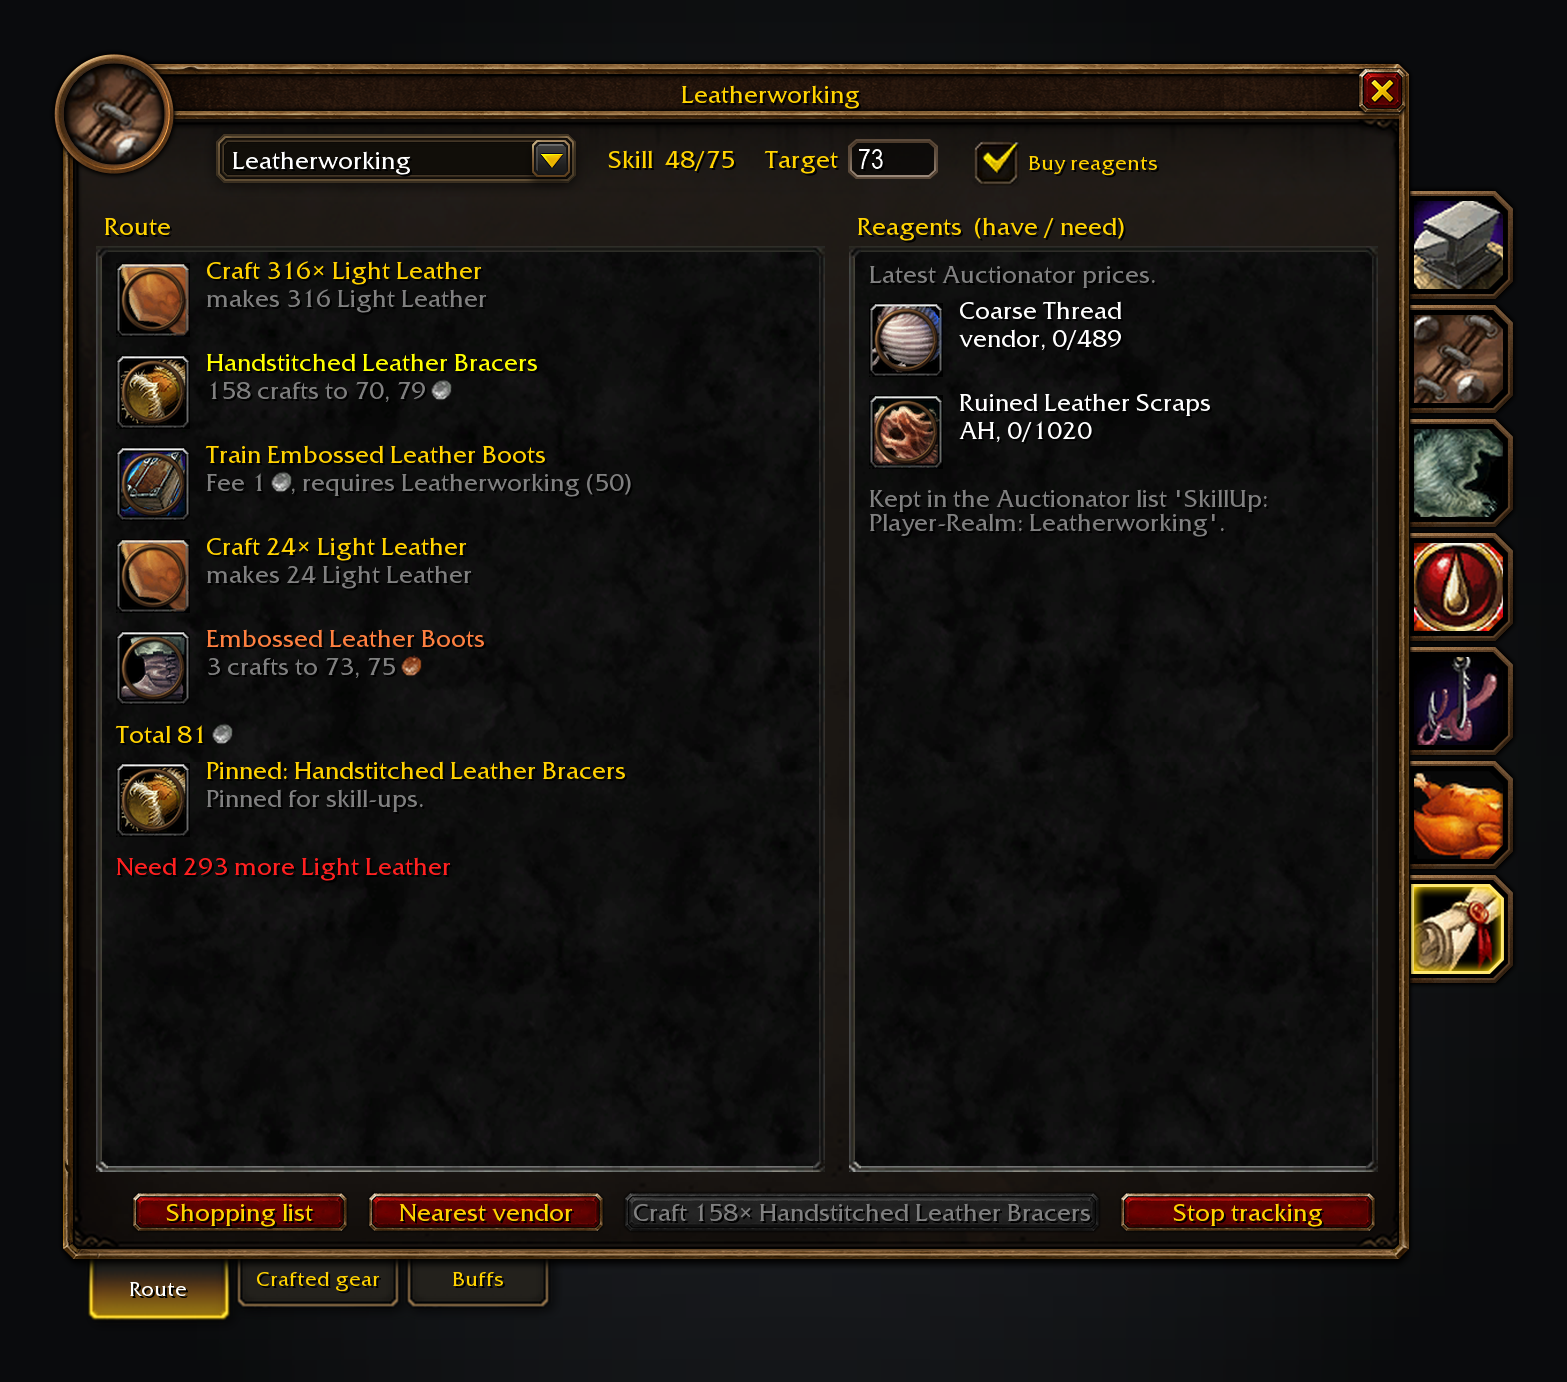
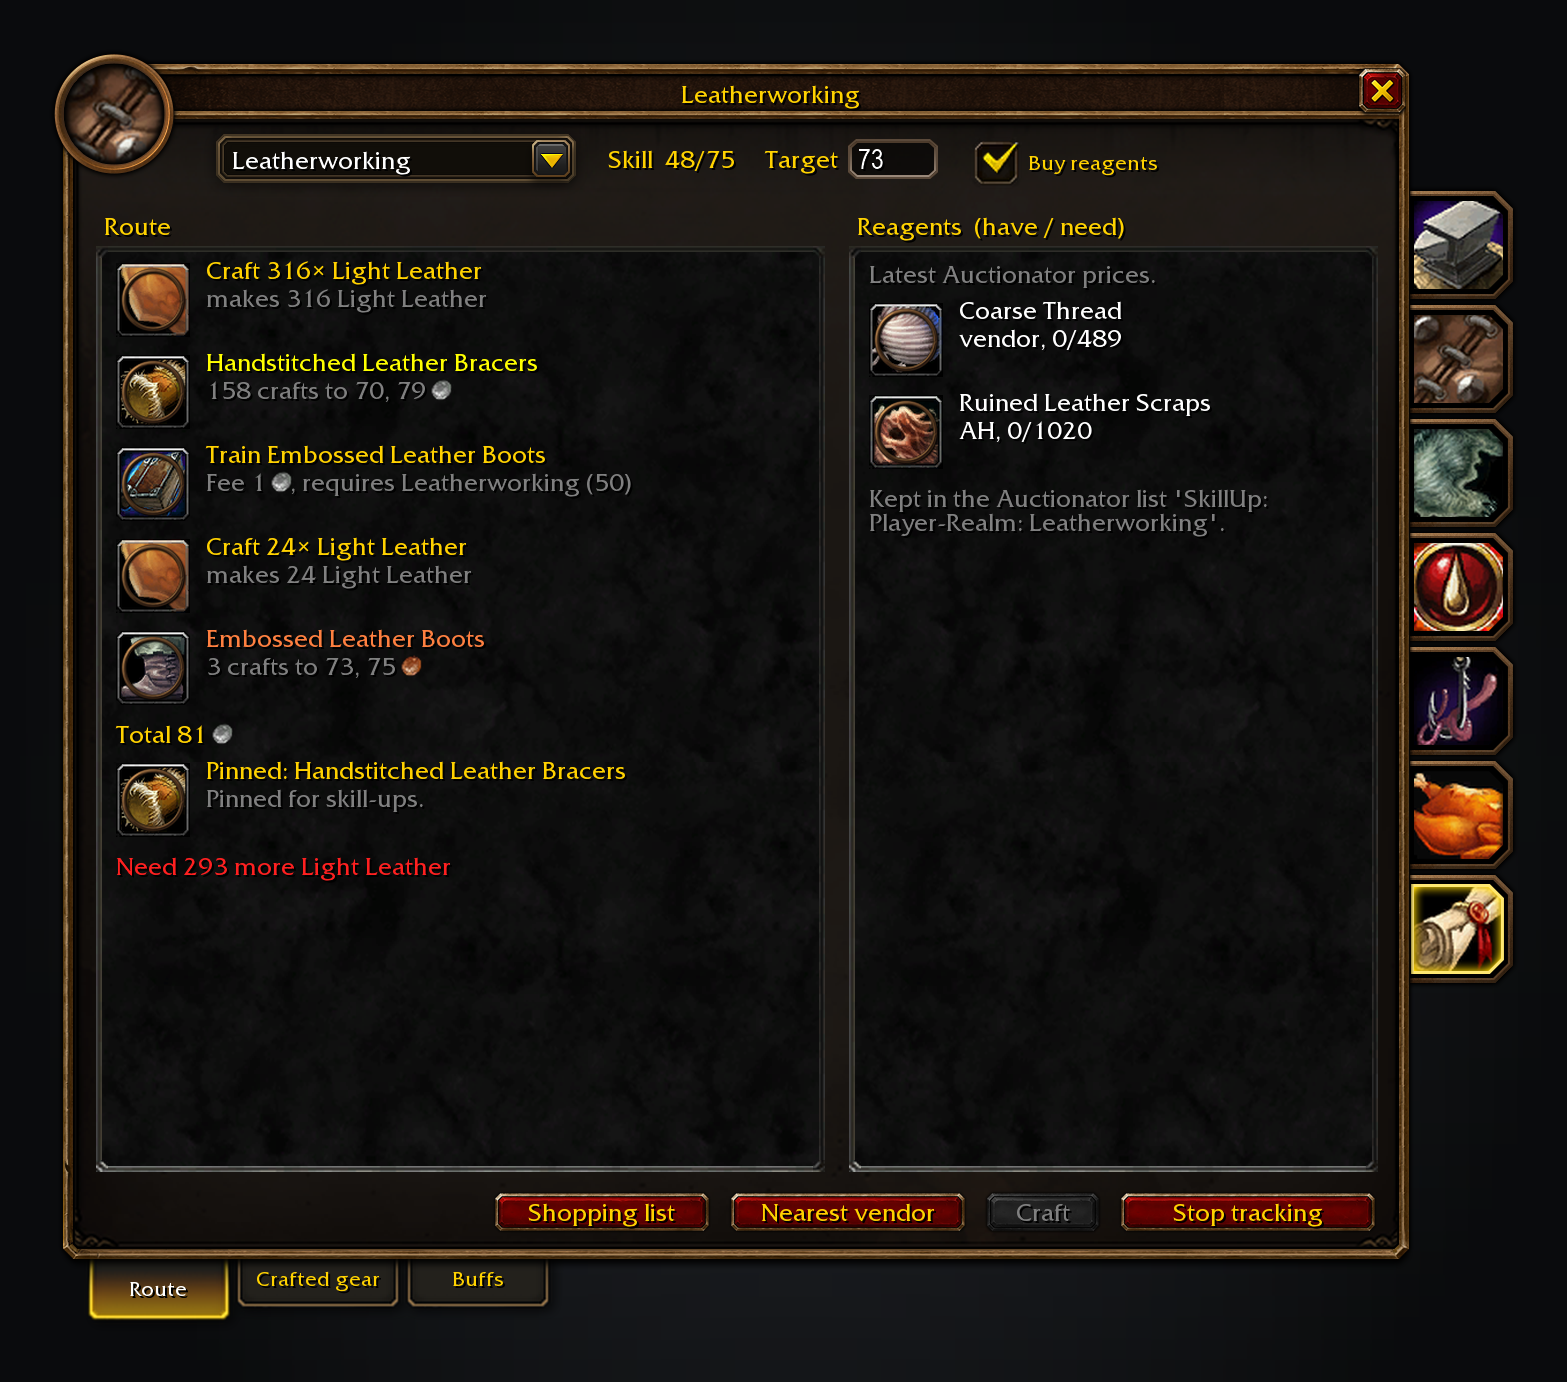
fix(route): take the craft count out of the button text (#564)
The Route page's Craft button keeps one plain label and one width. The step's
count sits in the game's own read-only count box beside it, naming the bags'
limit when they allow fewer than the step plans, and the recipe and count move
to the button's tooltip.

Closes #564

Changed region(s): [[0.0613, 0.8401, 0.7045, 0.9023]]

diff --git a/CHANGELOG.md b/CHANGELOG.md
@@ -12,6 +12,8 @@ optional `### For addon authors` subsection after a version's player bullets.
 
 ## [Unreleased]
 
+- **The route page's Craft button says just Craft.** The step's count now sits in the game's own count box beside it, and the recipe is named on its route step and in the button's tooltip, the way the Professions window labels its own button (#564).
+
 ## [1.6.1] - 2026-11-11
 
 - **Works again after updating.** Updating to the last version could leave the addon switched off in the game's AddOns list with "ForeverCore: missing", because the update did not bring Forever Core with it. Forever Core now comes inside this addon's download again, from CurseForge, Wago or GitHub alike, so updating is all it takes (cjber/shortest-path-forever#731).
